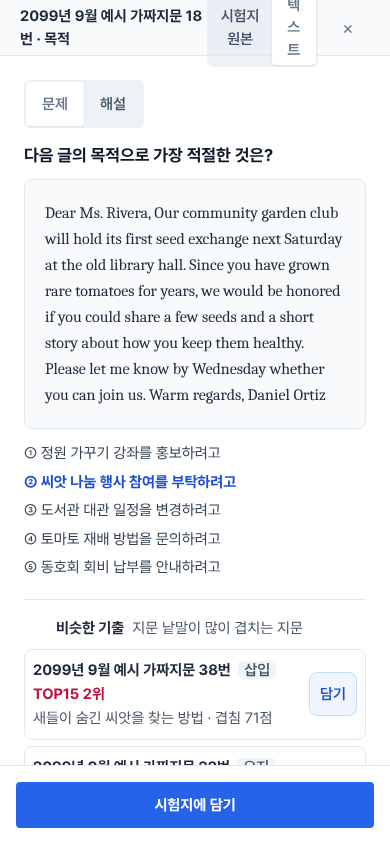
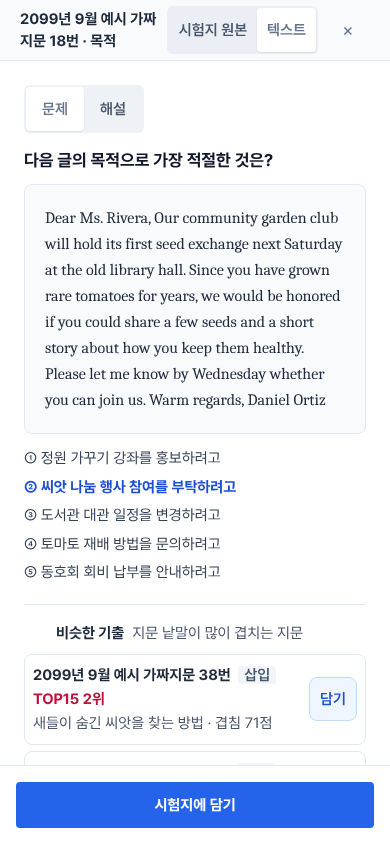
fix: 390 문항 상세 머리 줄바꿈, 보관함 카드 세로 배치 (스크린샷 점검)
Claude-Session: https://claude.ai/code/session_01QeHQAJ5jVXd3yZ9kd8soc1

diff --git a/문제은행/시안/시안.template.html b/문제은행/시안/시안.template.html
@@ -517,6 +517,11 @@ button.bkc:hover{background:#f1f5f9}.bkc.on{border-color:#65a30d;background:#f7f
 #examStrip a,#examStrip button[data-exrm]{min-height:44px;min-width:44px}
 #sideNav .nav-i{min-height:44px;min-width:44px}
 #findView label{min-height:44px}
+#drawer>div:first-child{height:auto;min-height:56px;flex-wrap:wrap;padding-top:6px;padding-bottom:6px;row-gap:4px}
+#drawer>div:first-child h3{flex:1 1 140px;min-width:0}#drawer [data-dv]{white-space:nowrap}
+#setsView .setcard{flex-direction:column}#setsView .setcard>div{width:100%}
+#setsView .sb-del2{white-space:nowrap;display:inline-flex;align-items:center;gap:4px}
+#setsView .setcard button,#setsView .setcard a{white-space:nowrap}
 #examStrip .strip8 .flex,#examStrip .strip8 span.flrow,#examStrip .strip8 .ml-auto{flex-wrap:wrap;max-width:100%}#examStrip .strip8{overflow-x:auto}
 #randBox>div{white-space:normal!important;flex-wrap:wrap;max-width:calc(100vw - 96px)}
 }

diff --git a/문제은행/시안/예시_화면시안.html b/문제은행/시안/예시_화면시안.html
@@ -517,6 +517,11 @@ button.bkc:hover{background:#f1f5f9}.bkc.on{border-color:#65a30d;background:#f7f
 #examStrip a,#examStrip button[data-exrm]{min-height:44px;min-width:44px}
 #sideNav .nav-i{min-height:44px;min-width:44px}
 #findView label{min-height:44px}
+#drawer>div:first-child{height:auto;min-height:56px;flex-wrap:wrap;padding-top:6px;padding-bottom:6px;row-gap:4px}
+#drawer>div:first-child h3{flex:1 1 140px;min-width:0}#drawer [data-dv]{white-space:nowrap}
+#setsView .setcard{flex-direction:column}#setsView .setcard>div{width:100%}
+#setsView .sb-del2{white-space:nowrap;display:inline-flex;align-items:center;gap:4px}
+#setsView .setcard button,#setsView .setcard a{white-space:nowrap}
 #examStrip .strip8 .flex,#examStrip .strip8 span.flrow,#examStrip .strip8 .ml-auto{flex-wrap:wrap;max-width:100%}#examStrip .strip8{overflow-x:auto}
 #randBox>div{white-space:normal!important;flex-wrap:wrap;max-width:calc(100vw - 96px)}
 }
